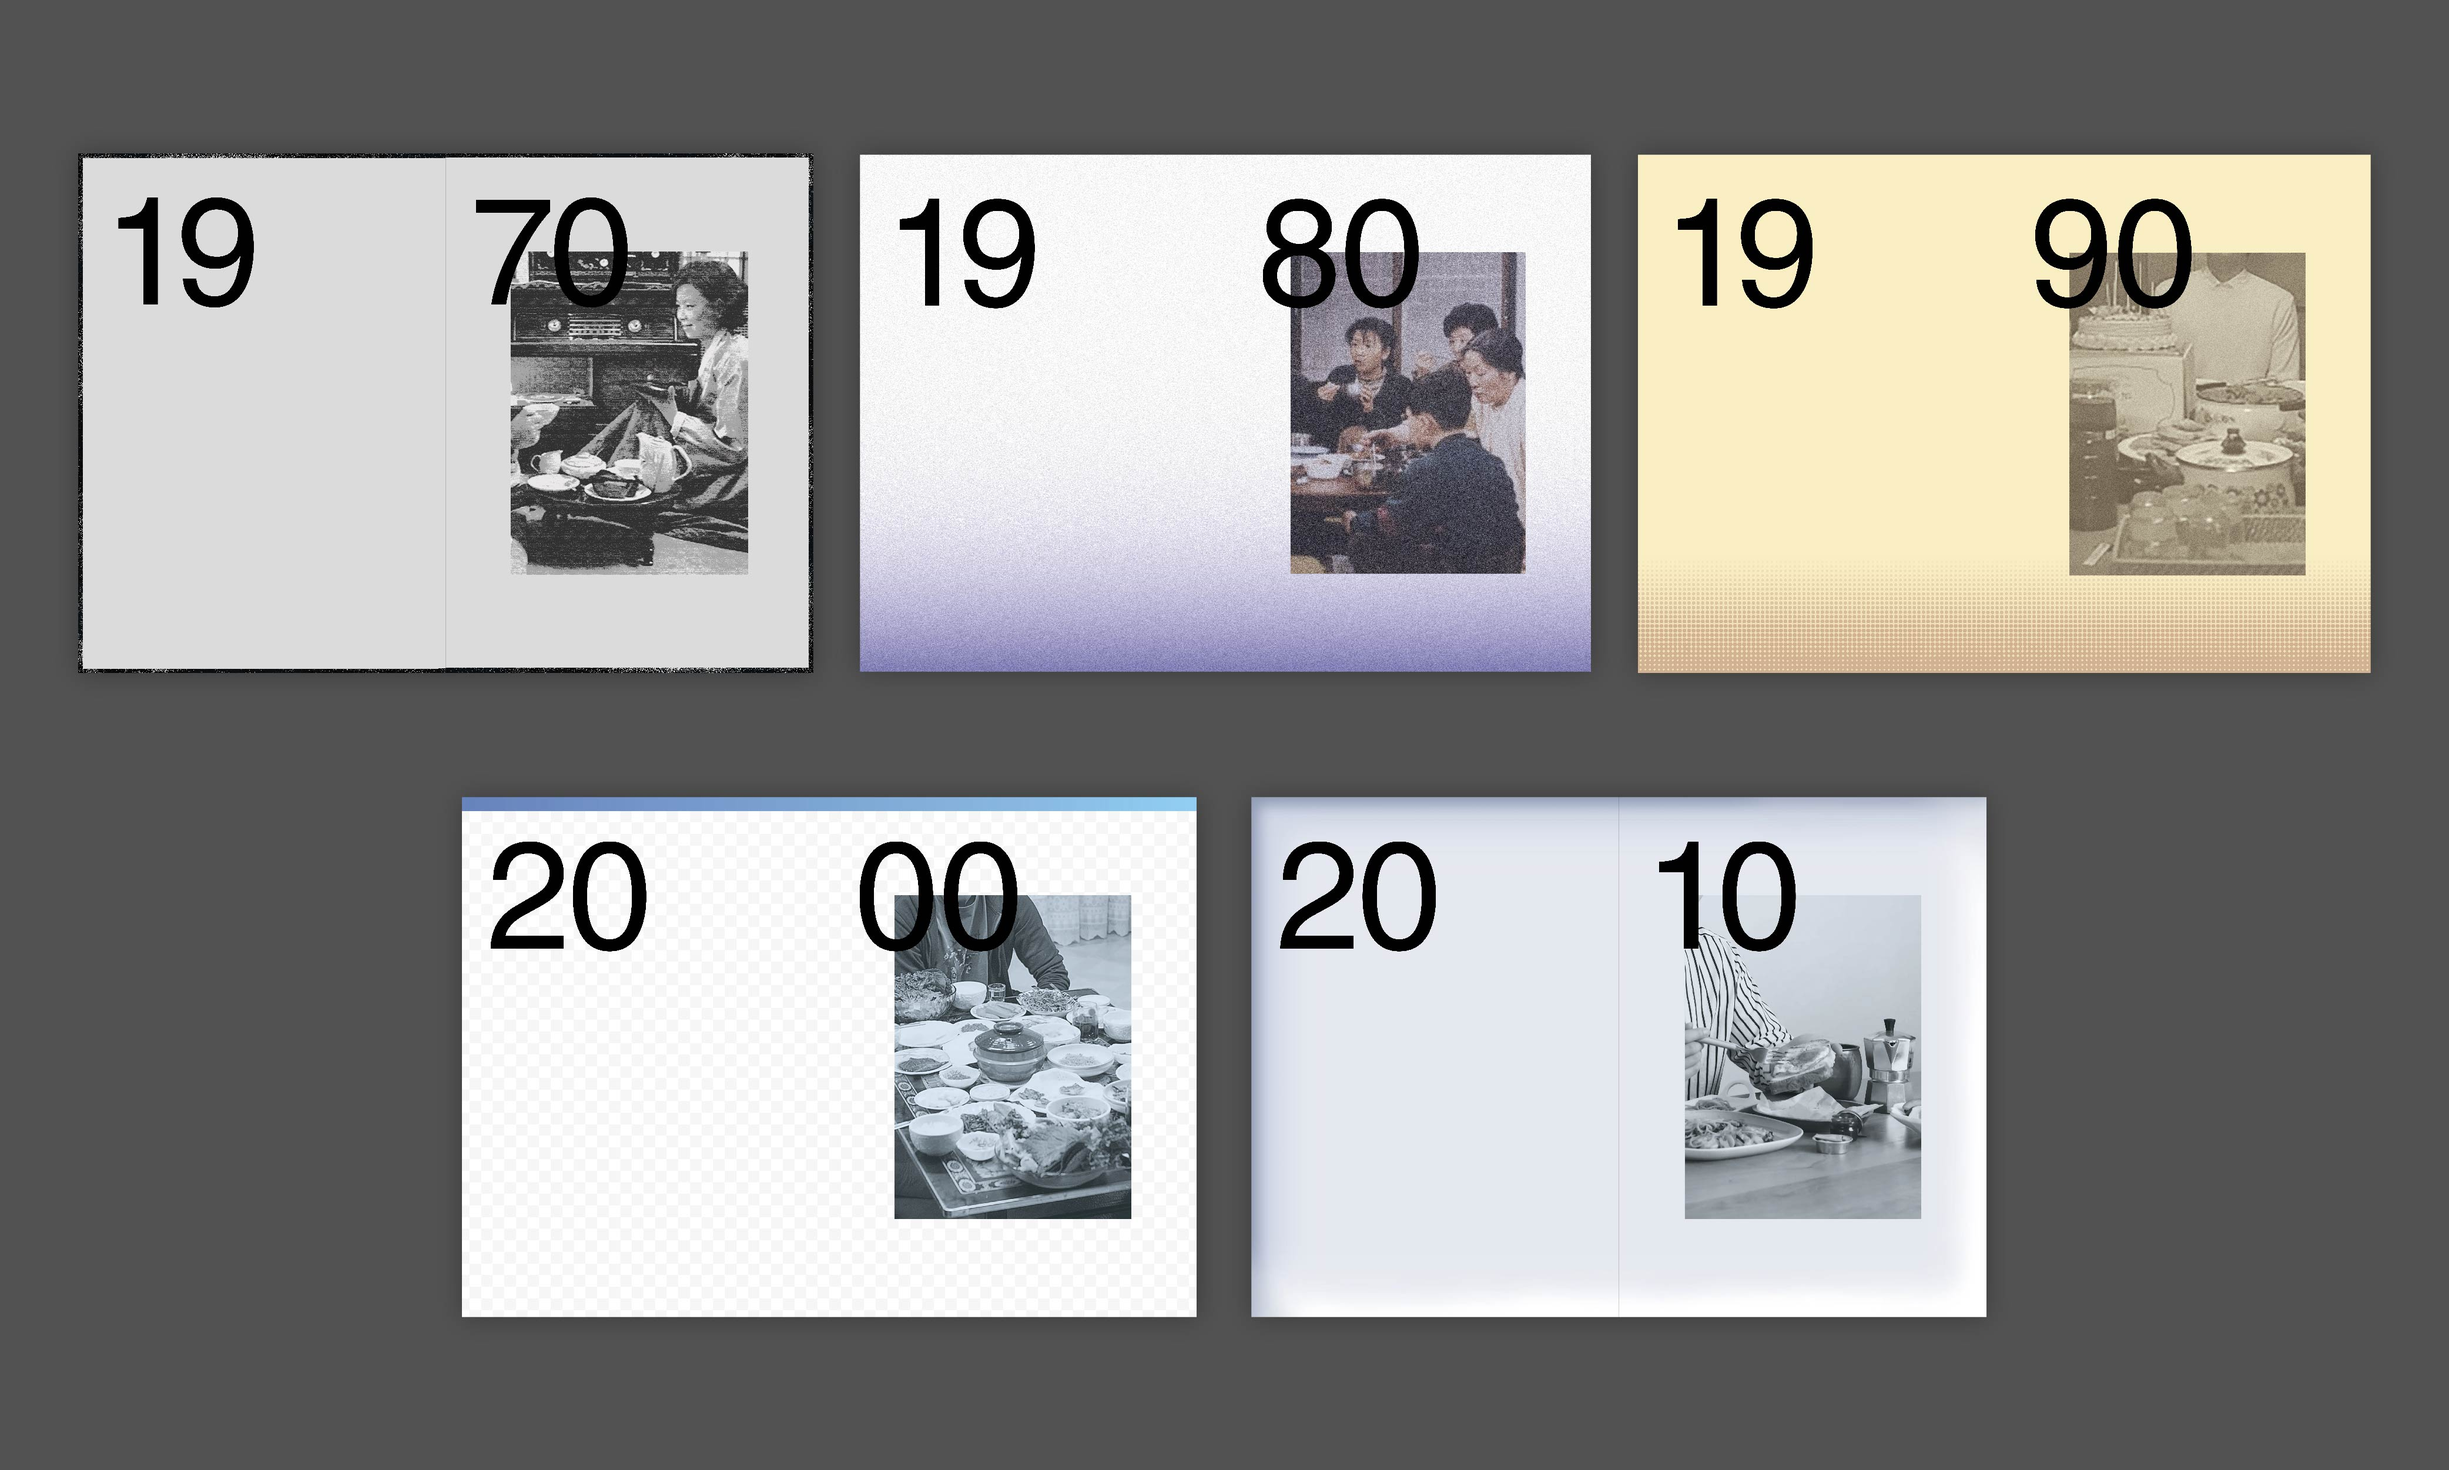
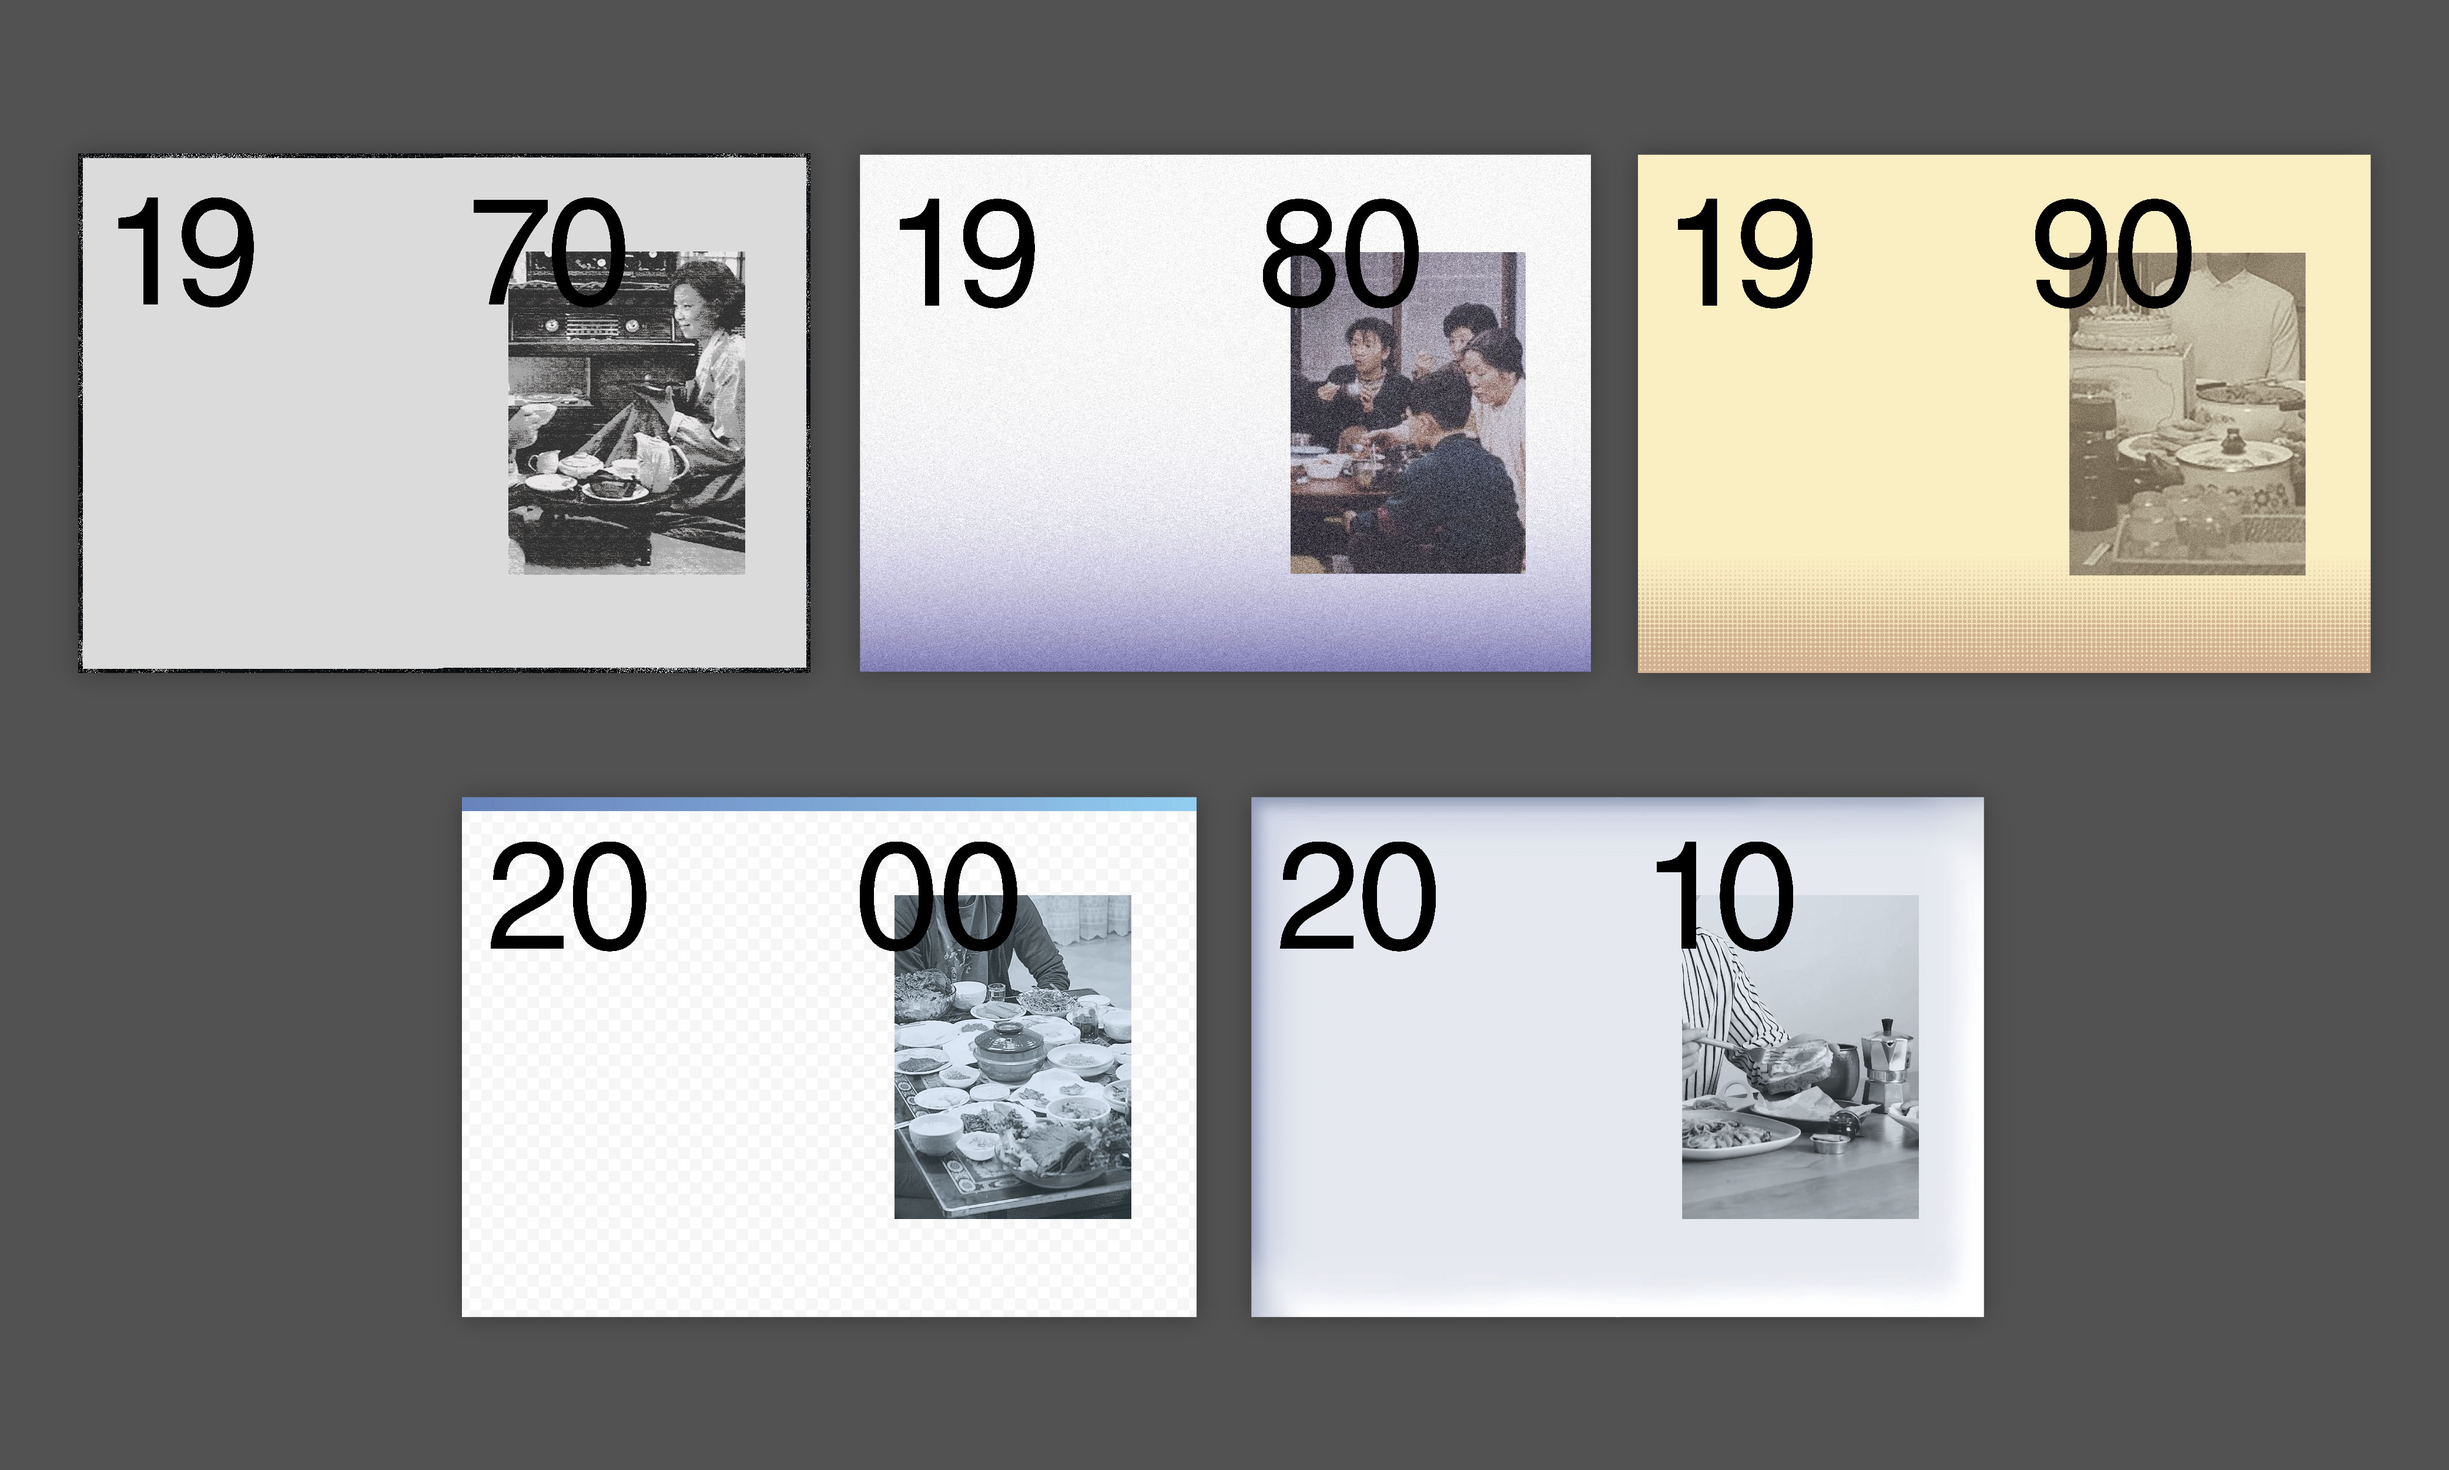
Add files via upload

Changed region(s): [[0.1872, 0.1559, 0.312, 0.4054], [0.6863, 0.5926, 0.7799, 0.7797]]

diff --git a/editorial/17100859/index.html b/editorial/17100859/index.html
@@ -65,11 +65,8 @@
 		<img src="14.jpg">
 		<img src="15.jpg">
 		<img src="16.jpg"><br><br><br>
-		<img src="17.jpg"><br>
-		<img src="18.jpg"><br>
-		<img src="19.jpg"><br>
-		<img src="20.jpg"><br><br><br>
-		<img src="21.jpg">
+		<img src="17.jpg"><br><br><br>
+		<img src="18.jpg">
 	
 	</article>
 	
